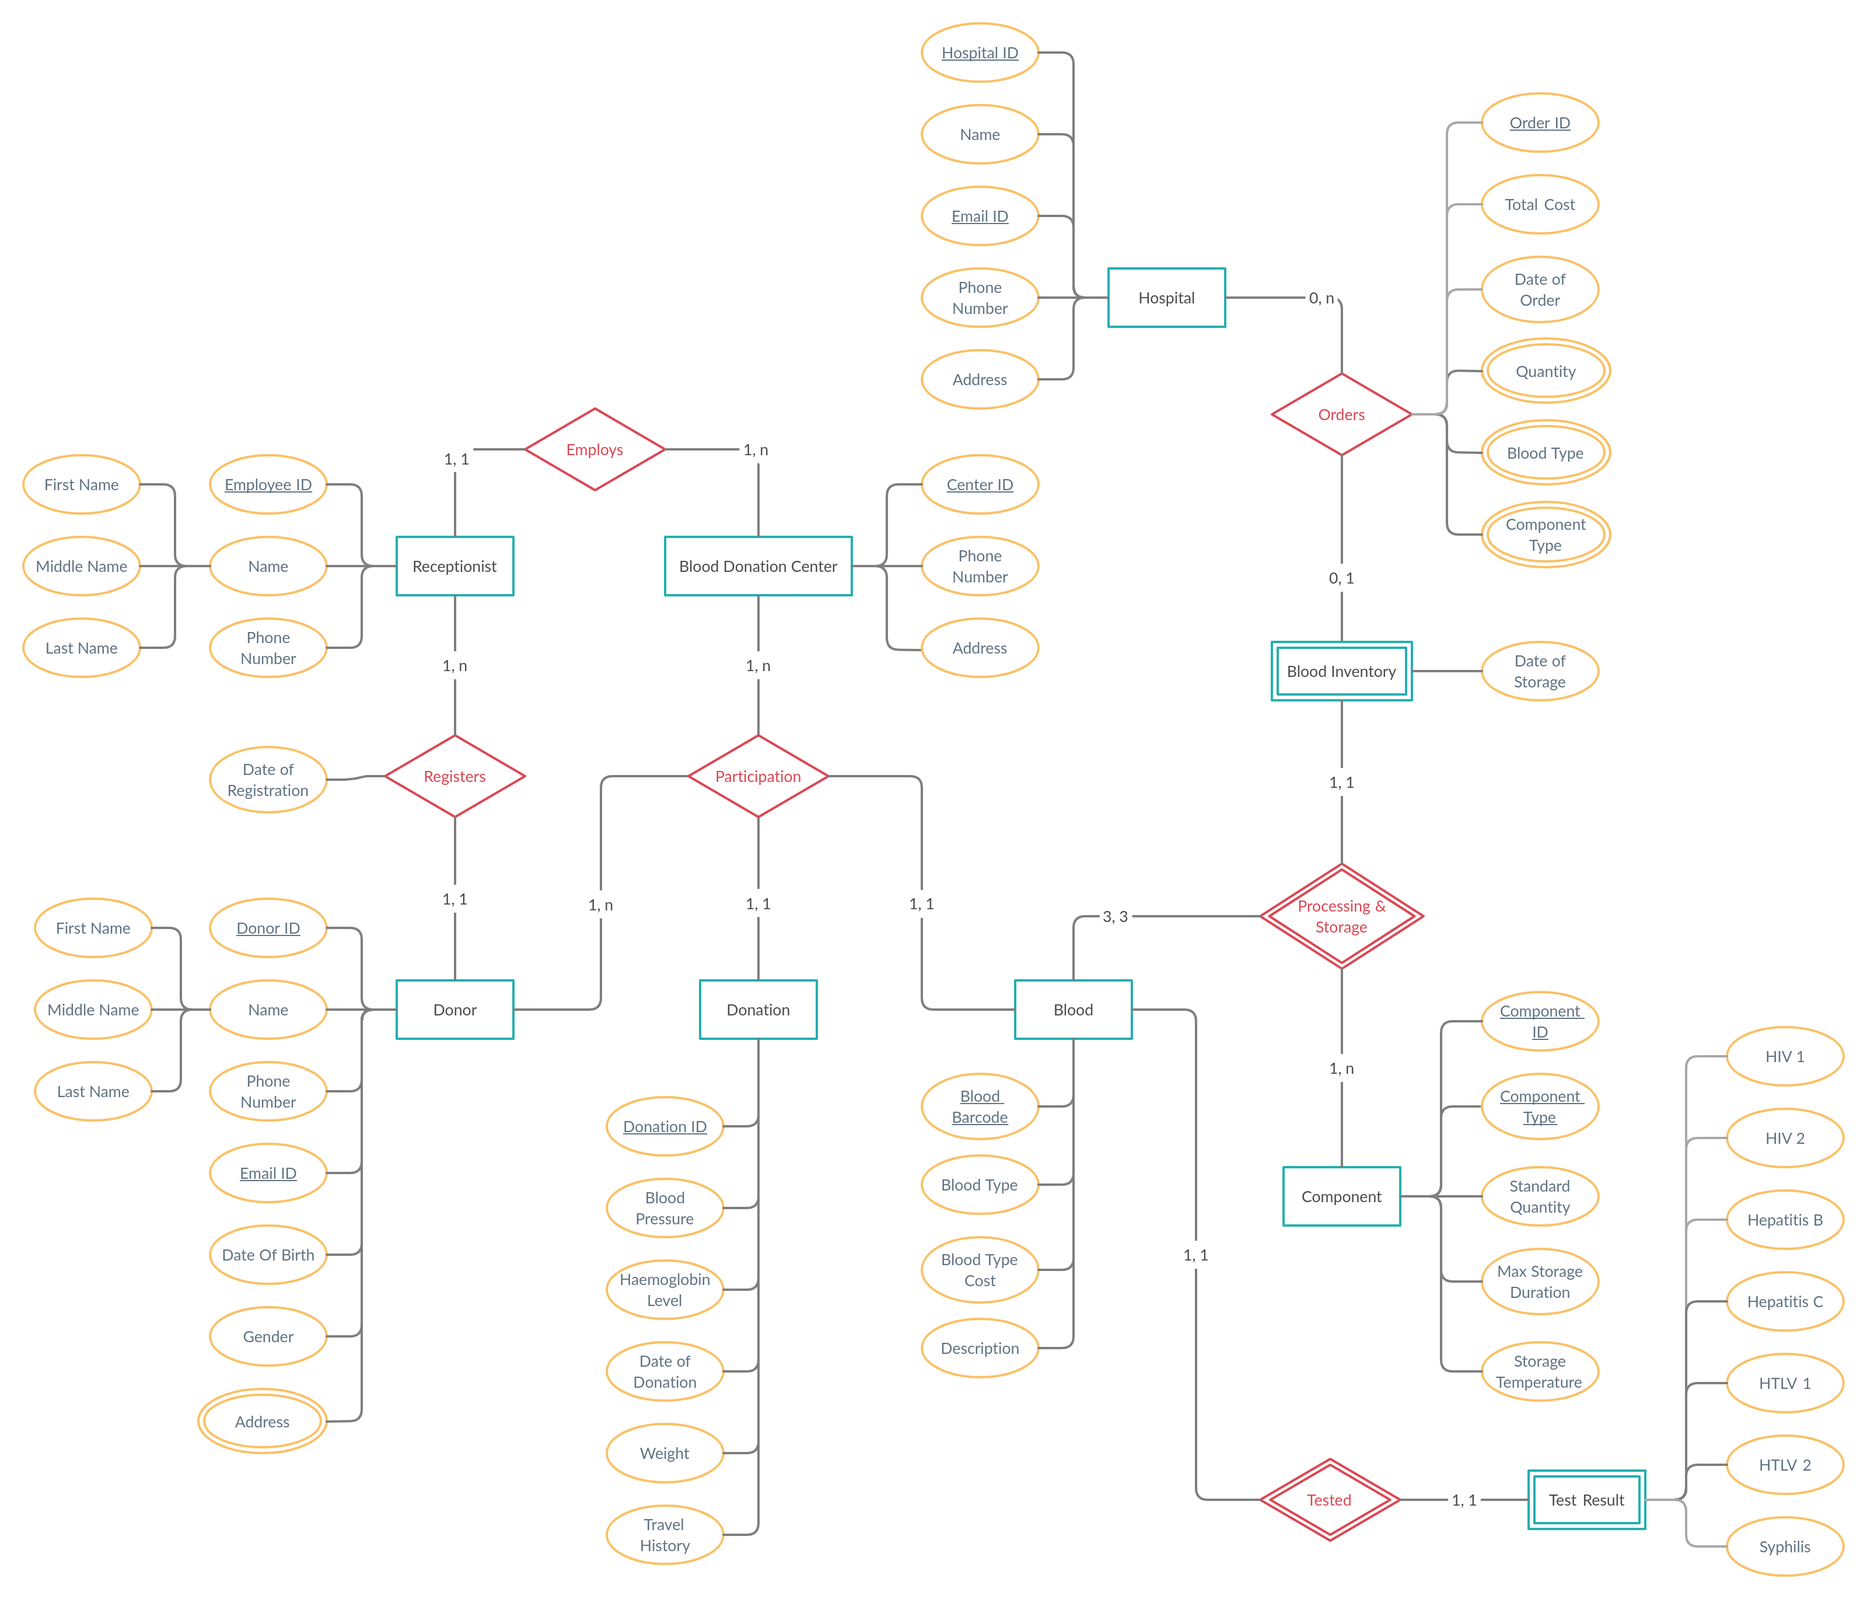
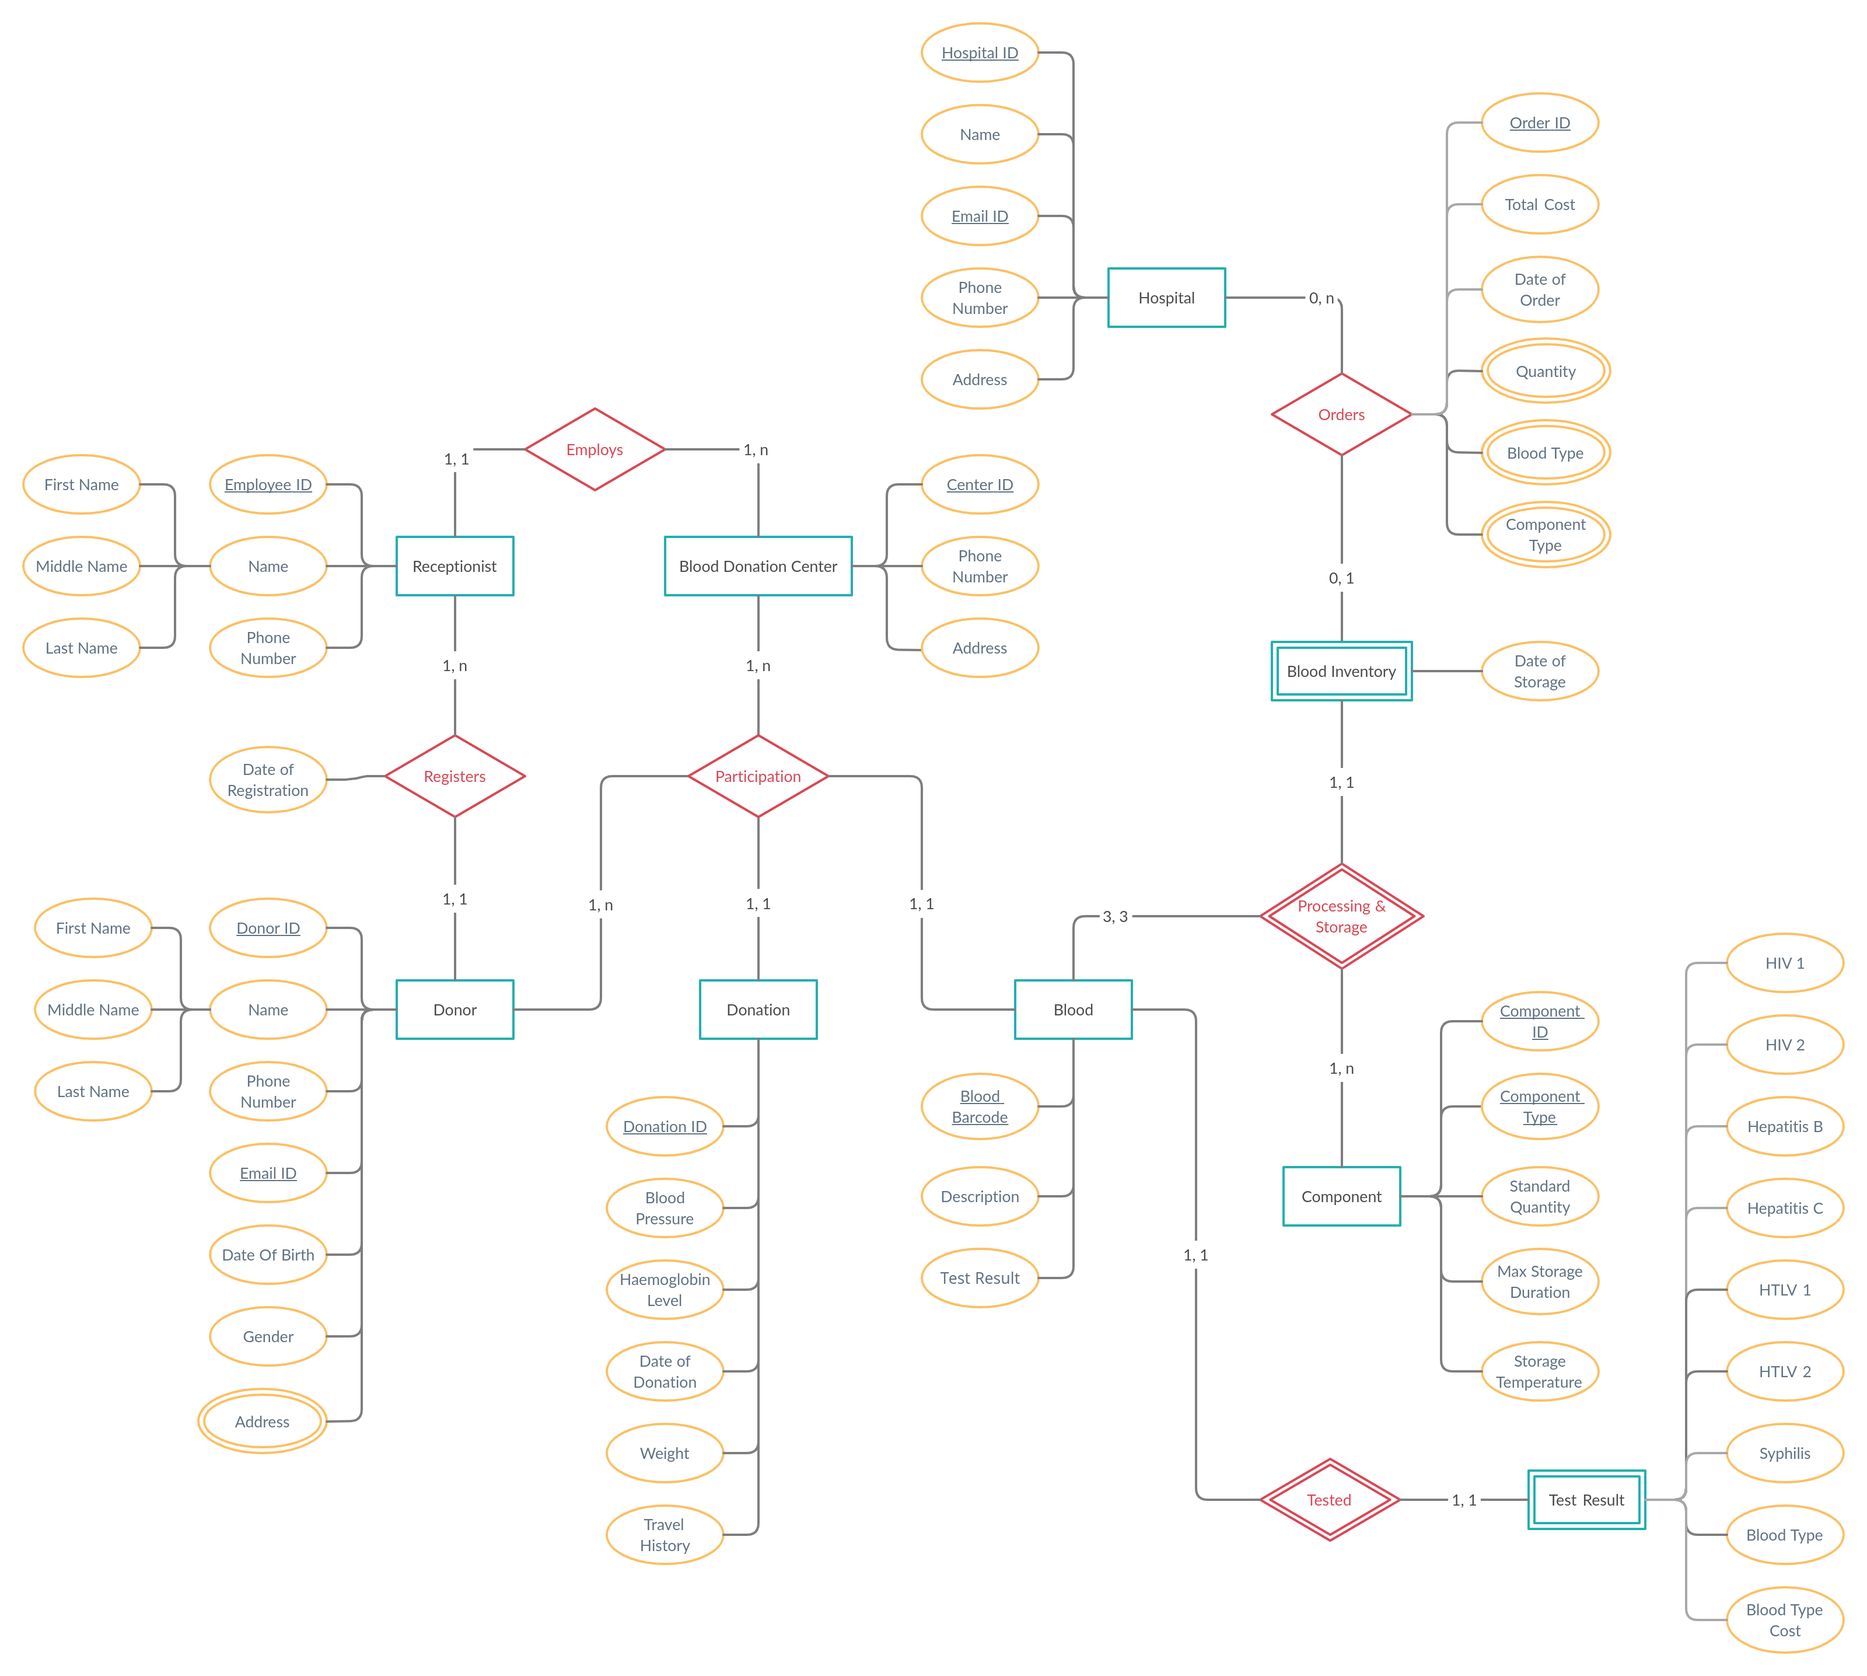
Added more insertion queries

diff --git a/bloodbank.py b/bloodbank.py
@@ -18,8 +18,12 @@ def validateInput(inp_str, inp_type, opt=False):
     validator = None
     if inp_type == "Name":
         validator = lambda name: re.match("^[A-Za-z]+$", name)
-    elif inp_type == "Number":
-        validator = lambda num: re.match("^\d+$", num)
+    elif inp_type == "Integer":
+        validator = lambda num: num.isdigit()
+    elif inp_type == "Float":
+        validator = lambda num: num.replace(".", "", 1).isdigit()
+    elif inp_type == "Bool":
+        validator = lambda bool: bool == "true"
     elif inp_type == "Email":
         validator = lambda email: re.match("^\w+@[A-Za-z]+\.[a-z]+$", email)
     elif inp_type == "Date":
@@ -30,6 +34,9 @@ def validateInput(inp_str, inp_type, opt=False):
         validator = lambda address: re.match("^[ \w]+$", address)
     elif inp_type == "Blood":
         validator = lambda b_type: b_type in ["A+", "A-", "B+", "B-", "AB+", "AB-", "O+", "O-"]
+    elif inp_type == "BP":
+        validator = lambda bp: re.match("^\d{2, 3}/\d{2, 3}$", bp)
+
 
     inp = input(inp_str + ": ")
     while not validator(inp):
@@ -82,8 +89,8 @@ def addDonor():
             print("Donor must be 18 years or above to donate!")
             return
 
-        donor["eid"] = int(validateInput("Employee ID of Receptionist", "Number"))
-        donor["phoneno"] = validateInput("Phone Number", "Number")
+        donor["eid"] = int(validateInput("Employee ID of Receptionist", "Integer"))
+        donor["phoneno"] = validateInput("Phone Number", "Integer")
         donor["email"] = validateInput("Email ID", "Email")
         donor["sex"] = validateInput("Sex (M/F/Other)", "Sex")
 
@@ -109,13 +116,13 @@ def addReceptionist():
         receptionist["fname"] = validateInput("First Name", "Name")
         receptionist["mname"] = validateInput("Middle Name*", "Name", opt=True)
         receptionist["lname"] = validateInput("Last Name", "Name")
-        receptionist["cid"] = int(validateInput("Center ID", "Number"))
-        receptionist["phoneno"] = validateInput("Phone Number", "Number")
+        receptionist["cid"] = int(validateInput("Center ID", "Integer"))
+        receptionist["phoneno"] = validateInput("Phone Number", "Integer")
 
         SQL_query = "INSERT INTO receptionist (center_id, first_name, middle_name, last_name, phone_number) " \
                     "VALUES({}, '{}', '{}', '{}', '{}')".format(
-            receptionist["cid"], receptionist["fname"], receptionist["mname"], receptionist["lname"],
-            receptionist["phoneno"]
+                        receptionist["cid"], receptionist["fname"], receptionist["mname"], receptionist["lname"],
+                        receptionist["phoneno"]
         )
 
         cursor.execute(SQL_query)
@@ -132,7 +139,7 @@ def addBloodDonationCenter():
     try:
         center = {}
         center["address"] = validateInput("Address", "Address")
-        center["phoneno"] = validateInput("Phone Number", "Number")
+        center["phoneno"] = validateInput("Phone Number", "Integer")
 
         SQL_query = "INSERT INTO blood_donation_center (phone_number, address) " \
                     "VALUES('{}', '{}')".format(center["phoneno"], center["address"])
@@ -147,42 +154,154 @@ def addBloodDonationCenter():
         print(RED, "ERROR>>>>>>>>>>>>> ", e, RESET, sep="")
 
 
-# def addDonation():
-#     pass
-#
-#
-# def addBlood():
-#     pass
-#
-#
-# def addTestResult():
-#     pass
-#
-#
-# def addToInventory():
-#     try:
-#         inventory = {}
-#         inventory["bldbarcode"] = int(input("Blood Barcode: "))
-#         inventory["compid"] = int(input("Component ID: "))
-#         inventory["dateofstorage"] = input("Date of Storage: ")
-#
-#         SQL_query = "INSERT INTO blood_inventory (blood_barcode, component_id, date_of_storage)" \
-#                     "VALUES ({}, {}, '{}')".format(inventory["bldbarcode"], inventory["compid"], inventory["dateofstorage"])
-#
-#         cursor.execute(SQL_query)
-#         db.commit()
-#         print(GREEN, "Insert successful", RESET, sep="")
-#
-#     except Exception as e:
-#         db.rollback()
-#         print("Failed to insert into database")
-#         print(RED, "ERROR>>>>>>>>>>>>> ", e, RESET, sep="")
+def addDonation():
+    try:
+        donor_id = int(validateInput("Donor ID", "Integer"))
+        center_id = int(validateInput("Center ID", "Integer"))
+
+        SQL_query = "SELECT gender FROM donor WHERE donor_id = '{}'".format(donor_id)
+        dict_cursor.execute(SQL_query)
+        sex = dict_cursor.fetchone()["gender"]
+
+        donation = {}
+        donation["bp"] = validateInput("Blood Pressure (systolic/diastolic)", "BP")
+        sys, dia = map(int, donation["bp"].split("/"))
+        if sys > 180 or dia > 100:
+            print("Blood pressure must be below 180 (systolic) and 100 (diastolic) to donate")
+            return
+
+        donation["haem"] = float(validateInput("Haemoglobin Level (g/dl)", "Float"))
+        if donation["haem"] > 20:
+            print("Haemoglobin level must be below 20 g/dl to donate")
+            return
+        if sex == 'M' and donation["haem"] < 13:
+            print("Haemoglobin level must be above 13 g/dl to donate")
+            return
+        if sex == 'F' and donation["haem"] < 12.5:
+            print("Haemoglobin level must be above 12.5 g/dl to donate")
+            return
+
+        donation["weight"] = float(validateInput("Weight (kg)", "Float"))
+        if(donation["weight"] < 50):
+            print("Weight must be greater than 50kg to donate")
+            return
+
+        donation["travelhist"] = input("Travel History*: ")
+
+        SQL_query = "INSERT INTO donation (blood_pressure, haemoglobin_level, date_of_donation, weight, travel_history) " \
+                    "VALUES ('{}', {}, CURDATE(), {}, '{}');".format(
+                        donation["bp"], donation["haem"], donation["weight"], donation["travelhist"]
+                    )
+
+        cursor.execute(SQL_query)
+        db.commit()
+        print(GREEN, "Insert successful", RESET, sep="")
+
+        # Insert into blood
+        blood = {}
+        blood["description"] = input("Blood Description*: ")
+        SQL_query = "INSERT INTO blood (description, test_result) VALUES ('{}', 'Pending')".format(blood["description"])
+        cursor.execute(SQL_query)
+        db.commit()
+
+        # Insert into donor participation
+        donor_participation = {}
+        donor_participation["donor_id"] = donor_id
+        donor_participation["center_id"] = center_id
+
+        SQL_query = "SELECT MAX(donation_id) AS 'max' FROM donation"
+        dict_cursor.execute(SQL_query)
+        donor_participation["donation_id"] = dict_cursor.fetchone()["max"]
+
+        SQL_query = "SELECT MAX(blood_barcode) AS 'max' FROM blood"
+        dict_cursor.execute(SQL_query)
+        donor_participation["barcode"] = dict_cursor.fetchone()["max"]
+
+        SQL_query = "INSERT INTO donor_participation (blood_barcode, donor_id, center_id, donation_id) " \
+                    "VALUES ({}, {}, {}, {})".format(
+                        donor_participation["barcode"], donor_participation["donor_id"], donor_participation["center_id"],
+                        donor_participation["donation_id"]
+        )
+        cursor.execute(SQL_query)
+        db.commit()
+
+    except Exception as e:
+        db.rollback()
+        print(RED, "Failed to insert into database", RESET, sep="")
+        print(RED, "ERROR>>>>>>>>>>>>> ", e, RESET, sep="")
+
+
+def addTestResult():
+    try:
+        blood_barcode = int(validateInput("Blood Barcode", "Integer"))
+
+        result = {}
+        result["blood_type"] = validateInput("Blood Type", "Blood")
+        result["hiv1"] = validateInput("HIV 1 (true/false)", "Bool") == "true"
+        result["hiv2"] = validateInput("HIV 2 (true/false)", "Bool") == "true"
+        result["hepatitis_b"] = validateInput("Hepatitis B (true/false)", "Bool") == "true"
+        result["hepatitis_c"] = validateInput("Hepatitis C (true/false)", "Bool") == "true"
+        result["htlv1"] = validateInput("HTLV 1 (true/false)", "Bool") == "true"
+        result["htlv2"] = validateInput("HTLV 2 (true/false)", "Bool") == "true"
+        result["syphilis"] = validateInput("Syphilis (true/false)", "Bool") == "true"
+
+        SQL_query = "INSERT INTO test_result VALUES (blood_barcode, blood_type, hiv1, hiv2, hepatitis_b, hepatitis_c, htlv1, htlv2, syphilis) " \
+                    "VALUES ({}, '{}', {}, {}, {}, {}, {}, {}, {})".format(
+                        blood_barcode, result["blood_type"], result["hiv1"], result["hiv2"], result["hepatitis_b"],
+                        result["hepatitis_c"], result["htlv1"], result["htlv2"], result["syphilis"]
+        )
+
+        cursor.execute(SQL_query)
+        db.commit()
+        print(GREEN, "Insert successful", RESET, sep="")
+
+        # Update blood table
+        SQL_query = "UPDATE blood SET test_result = '{}' WHERE blood.blood_barcode = {}".format(
+            "Positive" if True in result.values() else "Negative", blood_barcode
+        )
+        cursor.execute(SQL_query)
+        db.commit()
+
+    except Exception as e:
+        db.rollback()
+        print(RED, "Failed to insert into database", RESET, sep="")
+        print(RED, "ERROR>>>>>>>>>>>>> ", e, RESET, sep="")
+
+
+def addToInventory():
+    try:
+        inventory = {}
+        inventory["barcode"] = int(validateInput("Blood Barcode", "Integer"))
+        inventory["comp_id"] = int(validateInput("Component ID", "Integer"))
+        inventory["storage_date"] = validateInput("Date of Storage (YYYY/MM/DD)", "Date")
+
+        # Check if tests are negative
+        SQL_query = "SELECT test_result FROM blood WHERE blood.blood_barcode = {}".format(inventory["barcode"])
+        dict_cursor.execute(SQL_query)
+        if dict_cursor.fetchone()["test_result"] == "Positive":
+            print("Blood is unhealthy, cannot store in inventory")
+            return
+        elif dict_cursor.fetchone()["test_result"] == "Pending":
+            print("Blood can be stored only after test results are released")
+            return
+        
+        SQL_query = "INSERT INTO blood_inventory (blood_barcode, component_id, date_of_storage)" \
+                    "VALUES ({}, {}, '{}')".format(inventory["barcode"], inventory["comp_id"], inventory["storage_date"])
+
+        cursor.execute(SQL_query)
+        db.commit()
+        print(GREEN, "Insert successful", RESET, sep="")
+
+    except Exception as e:
+        db.rollback()
+        print("Failed to insert into database")
+        print(RED, "ERROR>>>>>>>>>>>>> ", e, RESET, sep="")
 
 
 # ------------------------ UPDATE QUERIES ------------------------
 def updateDonorDetails():
     try:
-        donor_id = int(validateInput("Donor ID", "Number"))
+        donor_id = int(validateInput("Donor ID", "Integer"))
         options = [
             "Update Phone Number",
             "Update Email ID",
@@ -198,7 +317,7 @@ def updateDonorDetails():
             return
 
         if choice == 1:
-            phone_number = validateInput("New Phone Number", "Number")
+            phone_number = validateInput("New Phone Number", "Integer")
             SQL_query = "UPDATE donor SET phone_number = '{}' WHERE donor_id = {}".format(phone_number, donor_id)
         elif choice == 2:
             email_id = validateInput("New Email ID", "Email")
@@ -226,7 +345,7 @@ def updateDonorDetails():
 # ------------------------ DELETION QUERIES ------------------------
 def removeDonor():
     try:
-        donor_id = int(validateInput("Donor ID", "Number"))
+        donor_id = int(validateInput("Donor ID", "Integer"))
         SQL_query = "DELETE FROM donor WHERE donor_id = {}".format(donor_id)
 
         cursor.execute(SQL_query)
@@ -274,7 +393,8 @@ def getDonorDetails():
     try:
         SQL_query = "SELECT DISTINCT donor.donor_id, first_name, middle_name, last_name, phone_number, email_id, date_of_birth, gender, blood_type FROM donor " \
                     "JOIN donor_participation ON donor.donor_id = donor_participation.donor_id " \
-                    "JOIN blood ON donor_participation.blood_barcode = blood.blood_barcode"
+                    "JOIN blood ON donor_participation.blood_barcode = blood.blood_barcode " \
+                    "JOIN test_result ON blood.blood_barcode = test_result.blood_barcode"
 
         cursor.execute(SQL_query)
         table = from_db_cursor(cursor)
@@ -317,8 +437,8 @@ def getDailyOrders():
 
 def getDonorsByAge():
     try:
-        lower_age = int(validateInput("Lower Age", "Number"))
-        upper_age = int(validateInput("Upper Age", "Number"))
+        lower_age = int(validateInput("Lower Age", "Integer"))
+        upper_age = int(validateInput("Upper Age", "Integer"))
         SQL_query = "SELECT * FROM donor WHERE TIMESTAMPDIFF(year, date_of_birth, CURDATE()) BETWEEN {} AND {}".format(
             lower_age, upper_age)
 
@@ -337,6 +457,7 @@ def findCommonlyOrderedBloodTypes():
         SQL_query = "SELECT blood_type, component_type, COUNT(*) AS total_orders FROM blood_inventory " \
                     "JOIN blood ON blood_inventory.blood_barcode = blood.blood_barcode " \
                     "JOIN component ON blood_inventory.component_id = component.component_id " \
+                    "JOIN test_result ON blood.blood_barcode = test_result.blood_barcode " \
                     "WHERE order_id IS NOT NULL " \
                     "GROUP BY blood_type, component_type " \
                     "ORDER BY total_orders DESC"
@@ -356,6 +477,7 @@ def findTotalStock():
         SQL_query = "SELECT blood_type, component_type, COUNT(*) AS total_stock FROM blood_inventory " \
                     "JOIN blood ON blood_inventory.blood_barcode = blood.blood_barcode " \
                     "JOIN component ON blood_inventory.component_id = component.component_id " \
+                    "JOIN test_result ON blood.blood_barcode = test_result.blood_barcode " \
                     "WHERE order_id IS NULL " \
                     "GROUP BY blood_type, component_type " \
                     "ORDER BY total_stock DESC"
@@ -393,6 +515,7 @@ def getDonorsFromBloodType():
         SQL_query = "SELECT DISTINCT donor.* FROM donor " \
                     "JOIN donor_participation ON donor.donor_id = donor_participation.donor_id " \
                     "JOIN blood ON donor_participation.blood_barcode = blood.blood_barcode " \
+                    "JOIN test_result ON blood.blood_barcode = test_result.blood_barcode " \
                     "WHERE blood_type = '{}'".format(blood_type)
 
         cursor.execute(SQL_query)
@@ -429,7 +552,7 @@ def getDonorsFromTestResults():
 
 def getDonorsFromEmployee():
     try:
-        employee_id = int(validateInput("Employee ID", "Number"))
+        employee_id = int(validateInput("Employee ID", "Integer"))
         SQL_query = "SELECT * FROM donor WHERE employee_id = {}".format(employee_id)
 
         cursor.execute(SQL_query)
@@ -444,7 +567,7 @@ def getDonorsFromEmployee():
 
 def getDonorsRegisteredAtCenter():
     try:
-        center_id = int(validateInput("Center ID", "Number"))
+        center_id = int(validateInput("Center ID", "Integer"))
         SQL_query = "SELECT donor.* FROM donor " \
                     "JOIN receptionist ON donor.employee_id = receptionist.employee_id " \
                     "JOIN blood_donation_center ON receptionist.center_id = blood_donation_center.center_id " \
@@ -462,7 +585,7 @@ def getDonorsRegisteredAtCenter():
 
 def getDonorsDonatedAtCenter():
     try:
-        center_id = int(validateInput("Center ID", "Number"))
+        center_id = int(validateInput("Center ID", "Integer"))
         SQL_query = "SELECT DISTINCT donor.* FROM donor " \
                     "JOIN donor_participation ON donor.donor_id = donor_participation.donor_id " \
                     "JOIN blood_donation_center ON donor_participation.center_id = blood_donation_center.center_id " \
@@ -582,9 +705,11 @@ def loop():
 
 db = None
 cursor = None
+dict_cursor = None
 connectToDatabase()
 if db is None:
     exit(1)
 else:
     cursor = db.cursor()
+    dict_cursor = db.cursor(pymysql.cursors.DictCursor)
     loop()
